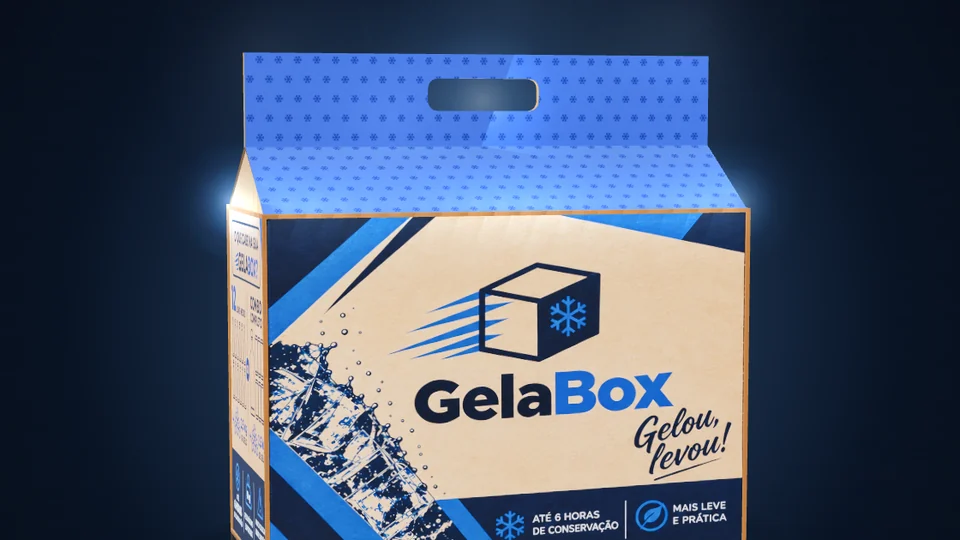
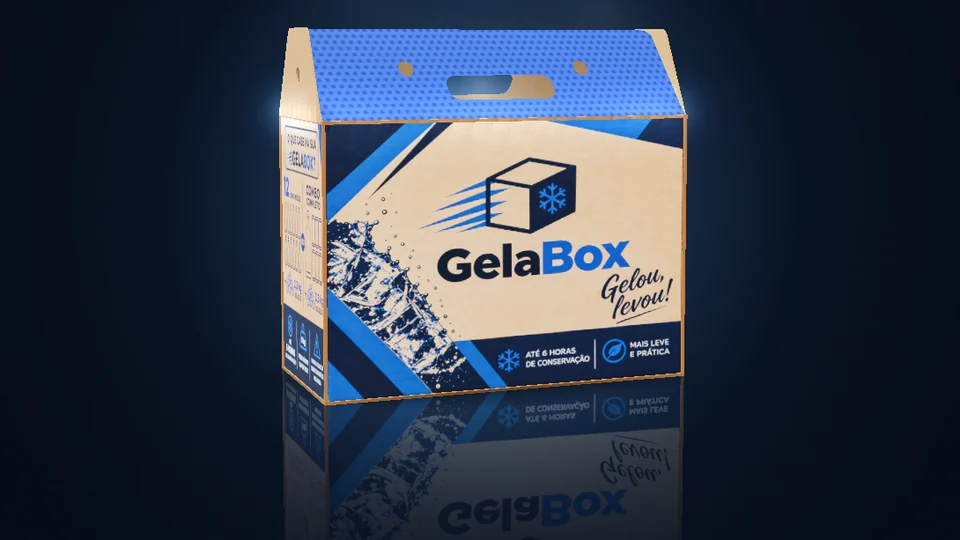
Alça da caixa 3D igual à caixa real
- Alça mais baixa (~1/3 da altura): duas metades azuis inclinadas que se encontram em cima,
  furo oval + 2 furos redondos, flocos de neve maiores
- Orelhas de papelão em trapézio até o topo, com furos; lingueta azul de trava na lateral direita
- Abertura: orelhas abrem para fora e a alça separa ao meio (uma metade para frente, outra para trás)
- Imagem reserva (sem WebGL) refeita com a alça nova

Claude-Session: https://claude.ai/code/session_01E1pV9zrfw7UZhJTWyruXpS

diff --git a/index.html b/index.html
@@ -436,7 +436,7 @@ function flake(g,x,y,r){g.beginPath();for(var a=0;a<6;a++){var c=Math.cos(a*Math
   var bx=x+c*r*.55,by=y+s*r*.55,c1=Math.cos(a*Math.PI/3+.7),s1=Math.sin(a*Math.PI/3+.7),c2=Math.cos(a*Math.PI/3-.7),s2=Math.sin(a*Math.PI/3-.7);
   g.moveTo(bx,by);g.lineTo(bx+c1*r*.35,by+s1*r*.35);g.moveTo(bx,by);g.lineTo(bx+c2*r*.35,by+s2*r*.35)}g.stroke()}
 var blueTex=cTex(256,256,function(g,w,h){g.fillStyle="#1f5fe0";g.fillRect(0,0,w,h);
-  g.strokeStyle="rgba(8,26,80,.7)";g.lineWidth=2.4;g.lineCap="round";for(var y=32,r=0;y<h;y+=64,r++)for(var x=r%2?0:32;x<=w;x+=64)flake(g,x,y,13);noise(g,w,h,10)},[4.5,4.5]);
+  g.strokeStyle="rgba(8,26,80,.75)";g.lineWidth=3.4;g.lineCap="round";for(var y=32,r=0;y<h;y+=64,r++)for(var x=r%2?0:32;x<=w;x+=64)flake(g,x,y,20);noise(g,w,h,10)},[8,8]);
 var innerTex=cTex(128,128,function(g,w,h){g.fillStyle="#2366e6";g.fillRect(0,0,w,h);
   g.fillStyle="rgba(10,40,120,.35)";for(var y=8;y<h;y+=16)for(var x=(y/16%2?16:8);x<w;x+=16){g.beginPath();g.arc(x,y,2.2,0,6.3);g.fill()}noise(g,w,h,10)},[5,4]);
 function glowTex(stops){return cTex(128,128,function(g,w,h){var r=g.createRadialGradient(64,64,0,64,64,64);
@@ -485,37 +485,45 @@ var flTex=cTex(256,256,function(g,w,h){var r=g.createRadialGradient(128,128,0,12
 var floor=new THREE.Mesh(new THREE.PlaneGeometry(7,7),new THREE.MeshBasicMaterial({map:flTex,transparent:true,depthWrite:false,toneMapped:false}));
 floor.rotation.x=-Math.PI/2;floor.position.y=-H/2-.001;floor.renderOrder=1;scene.add(floor);
 
-/* top: two handle panels (lower slanted + upper vertical with hole) and two side flaps */
-var A=Math.PI/3, L1=(D/2-.012)/Math.sin(A), L2=.27;
+/* top (as on the real box): two blue handle halves lean in from the long rims and meet at the ridge
+   (oval hand-hole + 2 round holes); kraft trapezoid ears stand on the short sides, the right one holds the blue lock tab.
+   Opening: the ears fold out, then the handle splits, one half to the front and one to the back */
+var HT=.33, RUN=D/2-.012, A=Math.atan2(RUN,HT), LP=Math.hypot(RUN,HT);
 var mBlue=std(blueTex,{roughness:.7}), mKraftIn=std(kraftTex,{roughness:.95,side:THREE.BackSide});
-function rectShape(w,h){var s=new THREE.Shape();s.moveTo(-w/2,0);s.lineTo(w/2,0);s.lineTo(w/2,h);s.lineTo(-w/2,h);s.lineTo(-w/2,0);return s}
 function rounded(s,x,y,w,h,r){var p=new THREE.Path();p.moveTo(x-w/2+r,y-h/2);p.lineTo(x+w/2-r,y-h/2);p.quadraticCurveTo(x+w/2,y-h/2,x+w/2,y-h/2+r);
   p.lineTo(x+w/2,y+h/2-r);p.quadraticCurveTo(x+w/2,y+h/2,x+w/2-r,y+h/2);p.lineTo(x-w/2+r,y+h/2);p.quadraticCurveTo(x-w/2,y+h/2,x-w/2,y+h/2-r);
   p.lineTo(x-w/2,y-h/2+r);p.quadraticCurveTo(x-w/2,y-h/2,x-w/2+r,y-h/2);s.holes.push(p)}
-var lowerG=new THREE.ShapeGeometry(rectShape(W,L1));
-var upperShape=rectShape(W,L2);rounded(upperShape,0,L2*.56,.34,.095,.035);var upperG=new THREE.ShapeGeometry(upperShape,10);
+function hole(s,x,y,rx,ry){var p=new THREE.Path();p.absellipse(x,y,rx,ry,0,Math.PI*2,true);s.holes.push(p)}
+var pS=new THREE.Shape(),pr=.05;pS.moveTo(-W/2,0);pS.lineTo(W/2,0);pS.lineTo(W/2,LP-pr);pS.quadraticCurveTo(W/2,LP,W/2-pr,LP);
+pS.lineTo(-W/2+pr,LP);pS.quadraticCurveTo(-W/2,LP,-W/2,LP-pr);pS.lineTo(-W/2,0);
+rounded(pS,0,LP*.35,.42,.12,.05);hole(pS,-.35,LP*.56,.028,.038);hole(pS,.35,LP*.56,.028,.038);
+var panelG=new THREE.ShapeGeometry(pS,12);
 var panels=[];
 [1,-1].forEach(function(side){
   var hinge=new THREE.Group();hinge.position.set(0,H/2,side*D/2);if(side<0)hinge.rotation.y=Math.PI;
   var tilt=new THREE.Group();hinge.add(tilt);
-  tilt.add(new THREE.Mesh(lowerG,mBlue));tilt.add(new THREE.Mesh(lowerG,mKraftIn));
-  var up=new THREE.Group();up.position.y=L1;tilt.add(up);
-  up.add(new THREE.Mesh(upperG,mBlue));up.add(new THREE.Mesh(upperG,mKraftIn));
-  body.add(hinge);panels.push({tilt:tilt,up:up});
+  tilt.add(new THREE.Mesh(panelG,mBlue));tilt.add(new THREE.Mesh(panelG,mKraftIn));
+  body.add(hinge);panels.push({tilt:tilt});
 });
-var triH=L1*Math.cos(A);
-var flapShape=new THREE.Shape();flapShape.moveTo(-D/2+.01,0);flapShape.lineTo(D/2-.01,0);flapShape.lineTo(0,triH-.01);flapShape.lineTo(-D/2+.01,0);
-var flapG=new THREE.ShapeGeometry(flapShape);var mFlap=std(kraftTex,{roughness:.92,side:THREE.DoubleSide});
+var EB=D/2-.01,ET=.14,EH=HT+.005,ELEAN=0;
+function earShape(right){var e=new THREE.Shape(),k=.1;e.moveTo(-EB,0);e.lineTo(EB,0);
+  e.lineTo(ET+(EB-ET)*k,EH*(1-k));e.quadraticCurveTo(ET,EH,ET-.03,EH);e.lineTo(-ET+.03,EH);e.quadraticCurveTo(-ET,EH,-ET-(EB-ET)*k,EH*(1-k));e.lineTo(-EB,0);
+  if(right){hole(e,-.13,.145,.022,.022);hole(e,.13,.145,.022,.022)}else hole(e,0,.16,.03,.03);return e}
+var mFlap=std(kraftTex,{roughness:.92});
+var tabTex=cTex(4,4,function(g,w,h){g.fillStyle="#1f5fe0";g.fillRect(0,0,w,h)}),mTab=std(tabTex,{roughness:.7,side:THREE.DoubleSide});
+var tabS=new THREE.Shape();tabS.moveTo(-.008,.03);tabS.lineTo(.008,.03);tabS.lineTo(.052,.27);tabS.absarc(0,.27,.052,0,Math.PI,false);tabS.lineTo(-.008,.03);
 var flaps=[];
 [1,-1].forEach(function(side){
-  var hinge=new THREE.Group();hinge.position.set(side*(W/2-.003),H/2,0);
-  var m=new THREE.Mesh(flapG,mFlap);m.rotation.y=side*Math.PI/2;hinge.add(m);body.add(hinge);flaps.push({h:hinge,s:side});
+  var hinge=new THREE.Group();hinge.position.set(side*(W/2+.002),H/2,0);
+  var m=new THREE.Mesh(new THREE.ExtrudeGeometry(earShape(side>0),{depth:.008,bevelEnabled:false,curveSegments:10}),mFlap);m.rotation.y=side*Math.PI/2;
+  if(side>0){var tab=new THREE.Mesh(new THREE.ShapeGeometry(tabS,10),mTab);tab.position.z=.0095;m.add(tab)}
+  hinge.add(m);body.add(hinge);flaps.push({h:hinge,s:side});
 });
 
 /* inner glow */
 var innerLight=new THREE.PointLight(0x5aa2ff,0,2.2,1.6);innerLight.position.set(0,H/2+.12,0);body.add(innerLight);
 function sprite(tex,scale,op){var s=new THREE.Sprite(new THREE.SpriteMaterial({map:tex,blending:THREE.AdditiveBlending,depthWrite:false,transparent:true,opacity:op}));s.scale.set(scale,scale,1);return s}
-var holeGlow=sprite(softGlow,.75,0);holeGlow.position.set(0,H/2+triH+L2*.5,0);body.add(holeGlow);
+var holeGlow=sprite(softGlow,.75,0);holeGlow.position.set(0,H/2+LP*.35*Math.cos(A),0);body.add(holeGlow);
 var seamGlows=[];
 for(var i=0;i<18;i++){[1,-1].forEach(function(sd){var s=sprite(softGlow,.42,0);s.position.set(-W/2+.06+i*(W-.12)/17,H/2+.02,sd*(D/2+.01));body.add(s);seamGlows.push(s)})}
 for(var j=0;j<8;j++){[1,-1].forEach(function(sd){var s=sprite(softGlow,.38,0);s.position.set(sd*(W/2+.01),H/2+.02,-D/2+.06+j*(D-.12)/7);body.add(s);seamGlows.push(s)})}
@@ -677,8 +685,9 @@ function render(dt){
 
   /* open / flaps */
   var o=s.open;
-  panels.forEach(function(p){p.tilt.rotation.x=-A+(A+1.05)*o;p.up.rotation.x=A*(1-o)})
-  flaps.forEach(function(f){f.h.rotation.z=-f.s*1.05*o});
+  var oe=sstep(Math.min(1,o/.55)),op=sstep(Math.min(1,Math.max(0,(o-.2)/.8)));
+  panels.forEach(function(p){p.tilt.rotation.x=-A+(A+1.0)*op});
+  flaps.forEach(function(f){f.h.rotation.z=f.s*(ELEAN-(ELEAN+1.15)*oe)});
 
   /* glow */
   var pulse=reduce?.8:(.62+.38*Math.sin(clock*2.4))*(.85+.15*Math.sin(clock*7.3));
